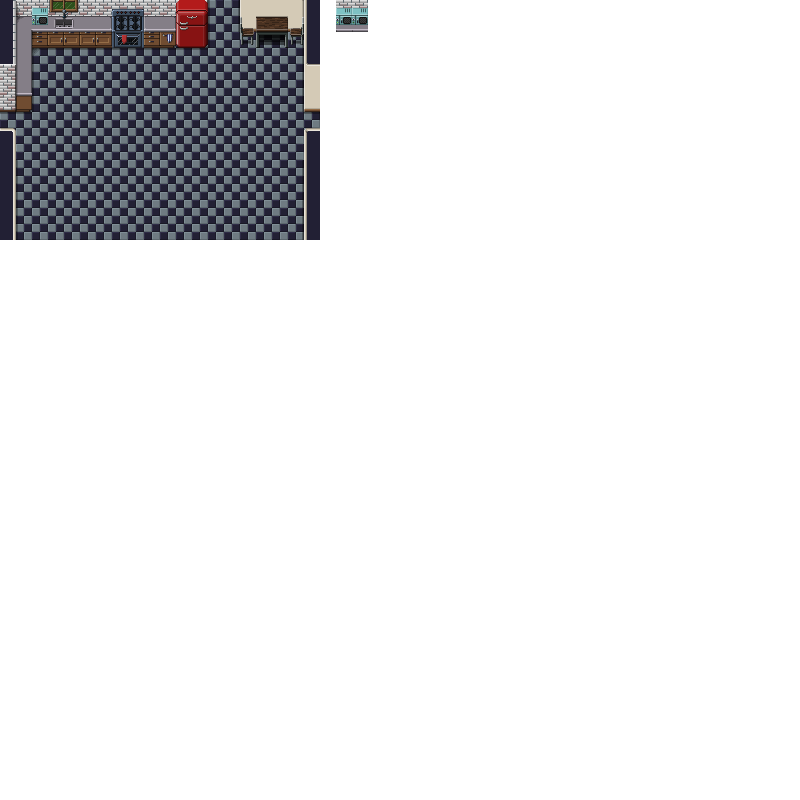
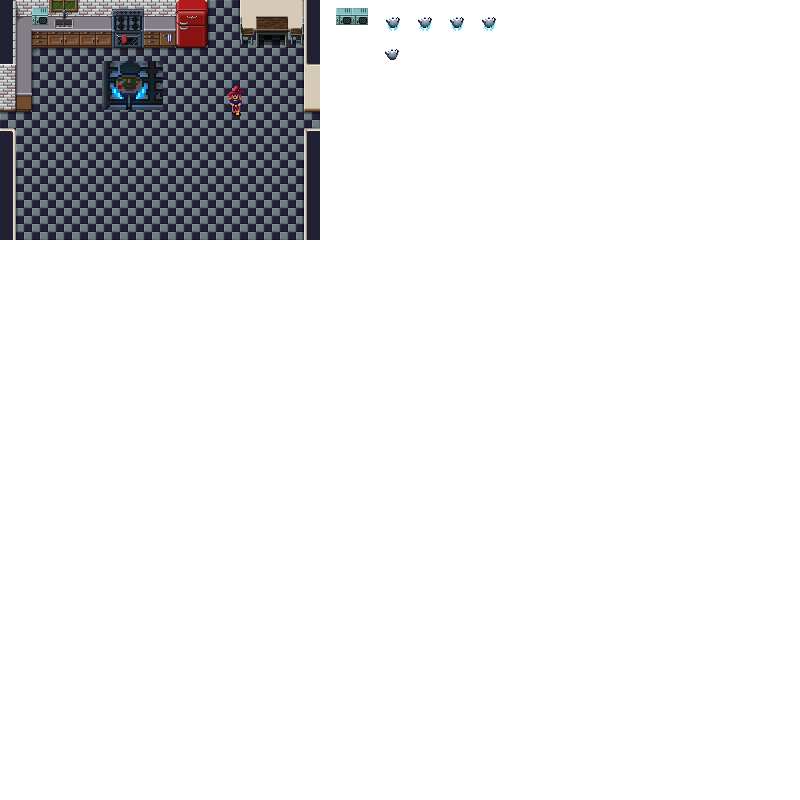
kitchen: add animated teapot

diff --git a/js/assets.js b/js/assets.js
@@ -118,6 +118,12 @@ const assetDefs = {
 		{ duration: 500, xoffset: 16*21, yoffset: 16*0},
 		{ duration: 500, xoffset: 16*22, yoffset: 16*0 },
 	  ]},
+	  {id: "teapot", kind: "anim", width: 32, height: 32, frames: [
+		{ duration: 100, xoffset: 16*23, yoffset: 16*0},
+		{ duration: 100, xoffset: 16*25, yoffset: 16*0 },
+		{ duration: 100, xoffset: 16*27, yoffset: 16*0 },
+		{ duration: 100, xoffset: 16*29, yoffset: 16*0 },
+	  ]},
 	  {id: "kwindow", kind: "sprite", width: 32, height: 16, 		xoffset: 16*3, yoffset: 16*0},
 	  {id: "stove", kind: "sprite", width: 16*2, height: 16*3, 		xoffset: 16*7, yoffset: 16*0},
 	  {id: "fridge", kind: "sprite", width: 16*2, height: 16*3, 	xoffset: 16*11, yoffset: 16*0},

diff --git a/js/scenes.js b/js/scenes.js
@@ -202,6 +202,7 @@ const TILR = "kitchen_tile_r";
 const TITL = "kitchen_tile_tl";
 const TILT = "kitchen_tile_t";
 const MCWV = "microwave";
+const TEAP = "teapot";
 const KWLL = "kwall_l";
 const KWLT = "kwall_t";
 const KTLU = "kwall_tl_u";
@@ -314,6 +315,7 @@ const LVL2_MID_GRID = new Grid({
 });
 LVL2_MID_GRID.set(MCWV, 2, 0);
 LVL2_MID_GRID.set(FRDG, 11, 0);
+LVL2_MID_GRID.set(TEAP, 6, 0);
 
 const LVL2_FG_GRID = new Grid({
 	width: WIDTH,
